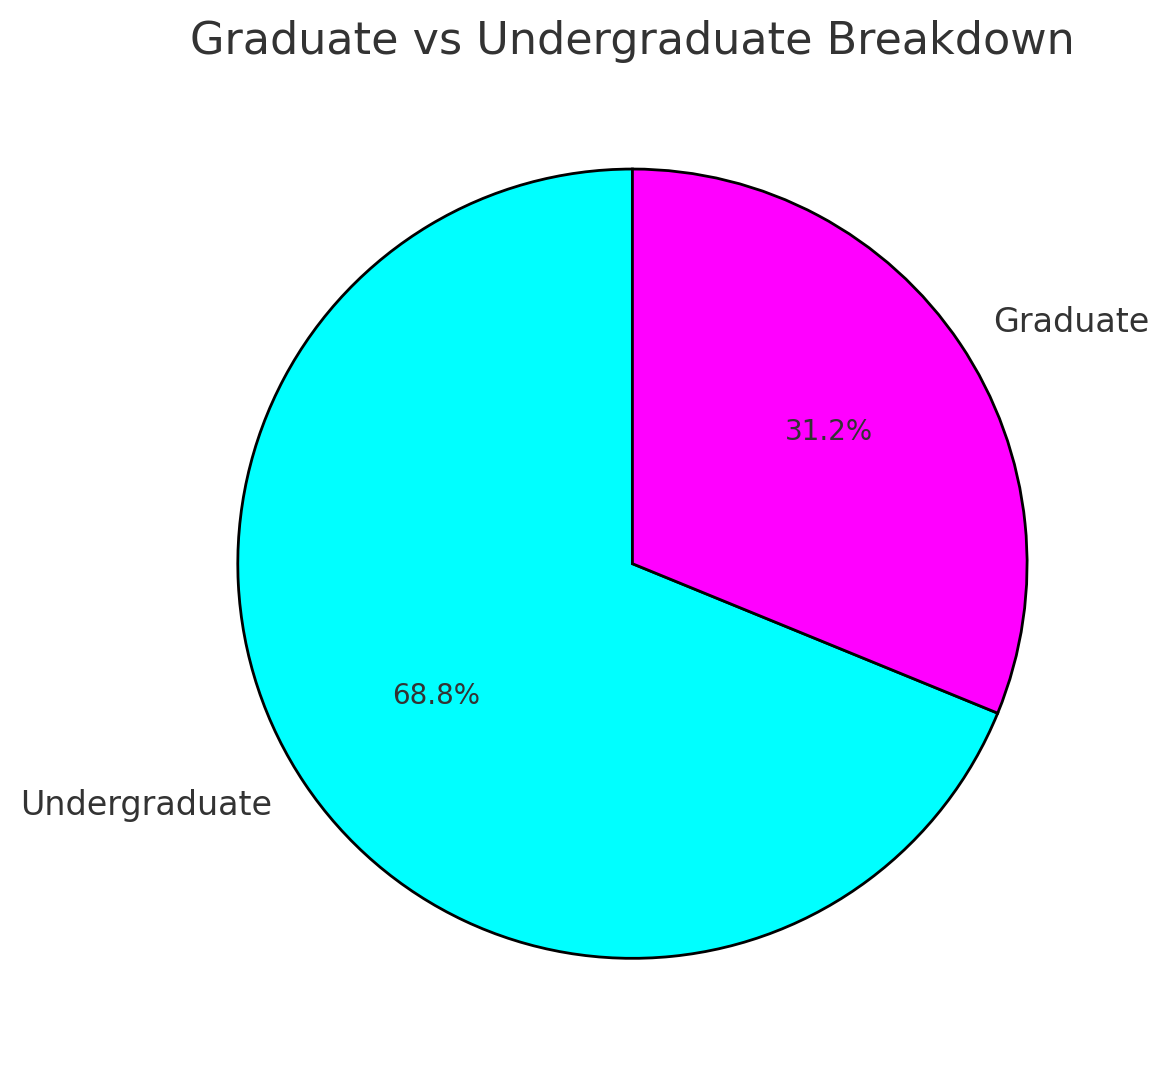
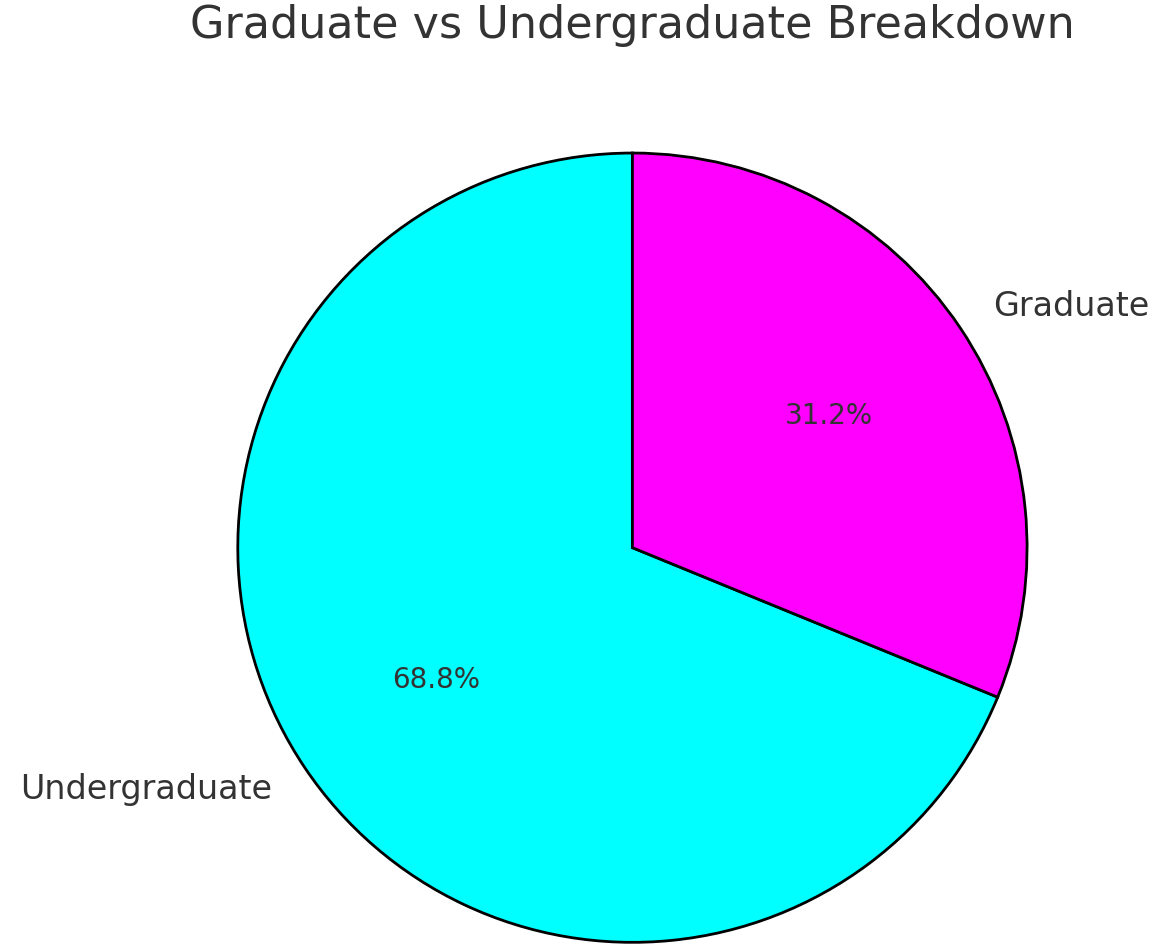
resizetry2

diff --git a/book/LA1.5.md b/book/LA1.5.md
@@ -47,7 +47,7 @@ Below is a table that outlines the distribution of respondents by their major or
 
 ## Visualizations of Survey Responses
 
-<img src="images/grad_undergrad_breakdown.png" alt="Graduate vs Undergraduate" width="50%">
+![Graduate vs Undergraduate](images/grad_undergrad_breakdown.png)
 
 The pie chart highlights the proportion of graduate and undergraduate students who participated in the survey.
 
